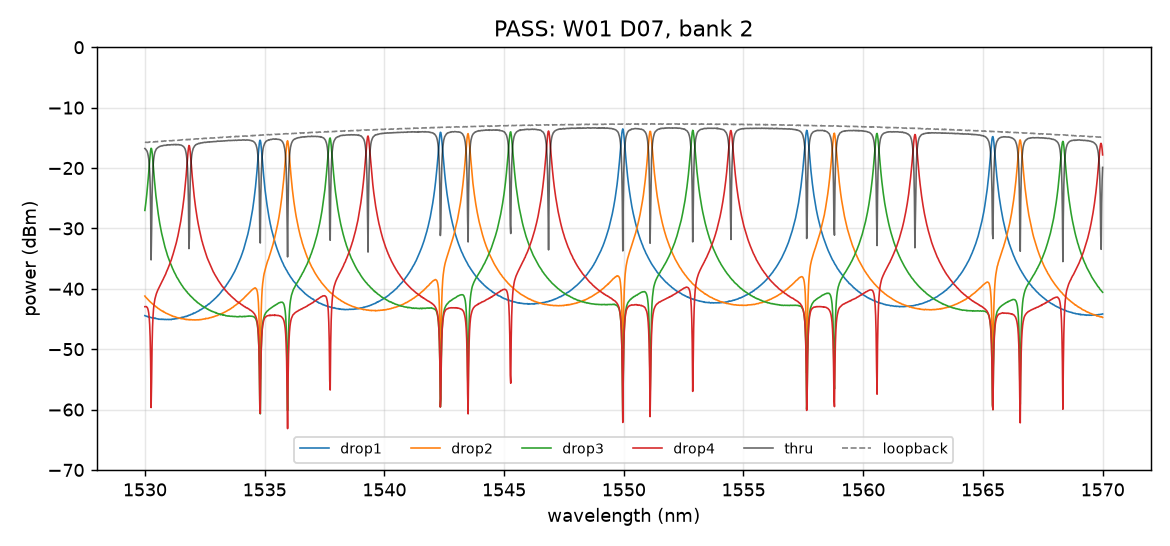
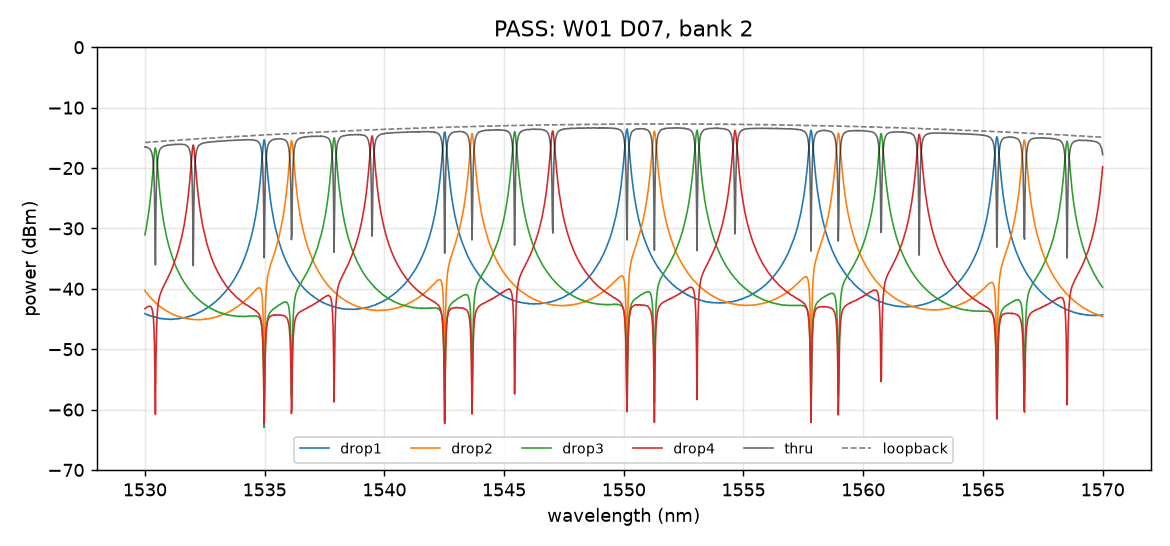
Die model: thickness sensitivity from the mode solver (0.0038 per nm), heater resistance marked as assumed; figures from a fresh run

Changed region(s): [[0.1231, 0.2179, 0.9538, 0.7784]]

diff --git a/pts/dut.py b/pts/dut.py
@@ -41,10 +41,11 @@ ALPHA_DB_CM = 3.0          # propagation loss of the straight strip (assumed; th
 BEND_DB = 0.0116           # loss of one 90 degree bend at R = 10 um, 450 nm strip: cut-back slope in CORNERSTONE's
                            # SOI standard components library (Mar 2023); the whole loss of the bend, charged once per corner
 DNEFF_DW = 0.00219         # d n_eff / d width, per nm (450 x 220 strip, TE, 1550 nm; femwell width sweep, cornerstone-pic step 18)
-DNEFF_DT = 0.0035          # d n_eff / d thickness, per nm
+DNEFF_DT = 0.0038          # d n_eff / d thickness, per nm (same strip; femwell at 219 and 221 nm, cornerstone-pic step 19)
 P_PI_MW = 88.0             # electrical heater power for a pi phase shift: the foundry's qualification bound of 30 mW per pi
                            # for the heated waveguide, times 113/38.5 because only 38.5 um of the 113 um heater lies over the ring
-R_HEATER = 300.0           # TiN heater resistance, ohm
+R_HEATER = 300.0           # heater resistance, ohm: ASSUMED. The foundry qualifies its heater by power per pi and publishes
+                           # no sheet resistance; for the drawn 113 x 2.5 um filament (45 squares) 300 ohm means 6.6 ohm per square
 GC_LOSS_DB = 6.0           # grating coupler loss at its centre wavelength (kit model; the library measures 5.5 to 6.5 dB)
 GC_1DB_HALF_BW_NM = 17.5   # 1 dB bandwidth = 35 nm
 ROUTE_LOSS_DB = 0.3        # on-chip routing per path
